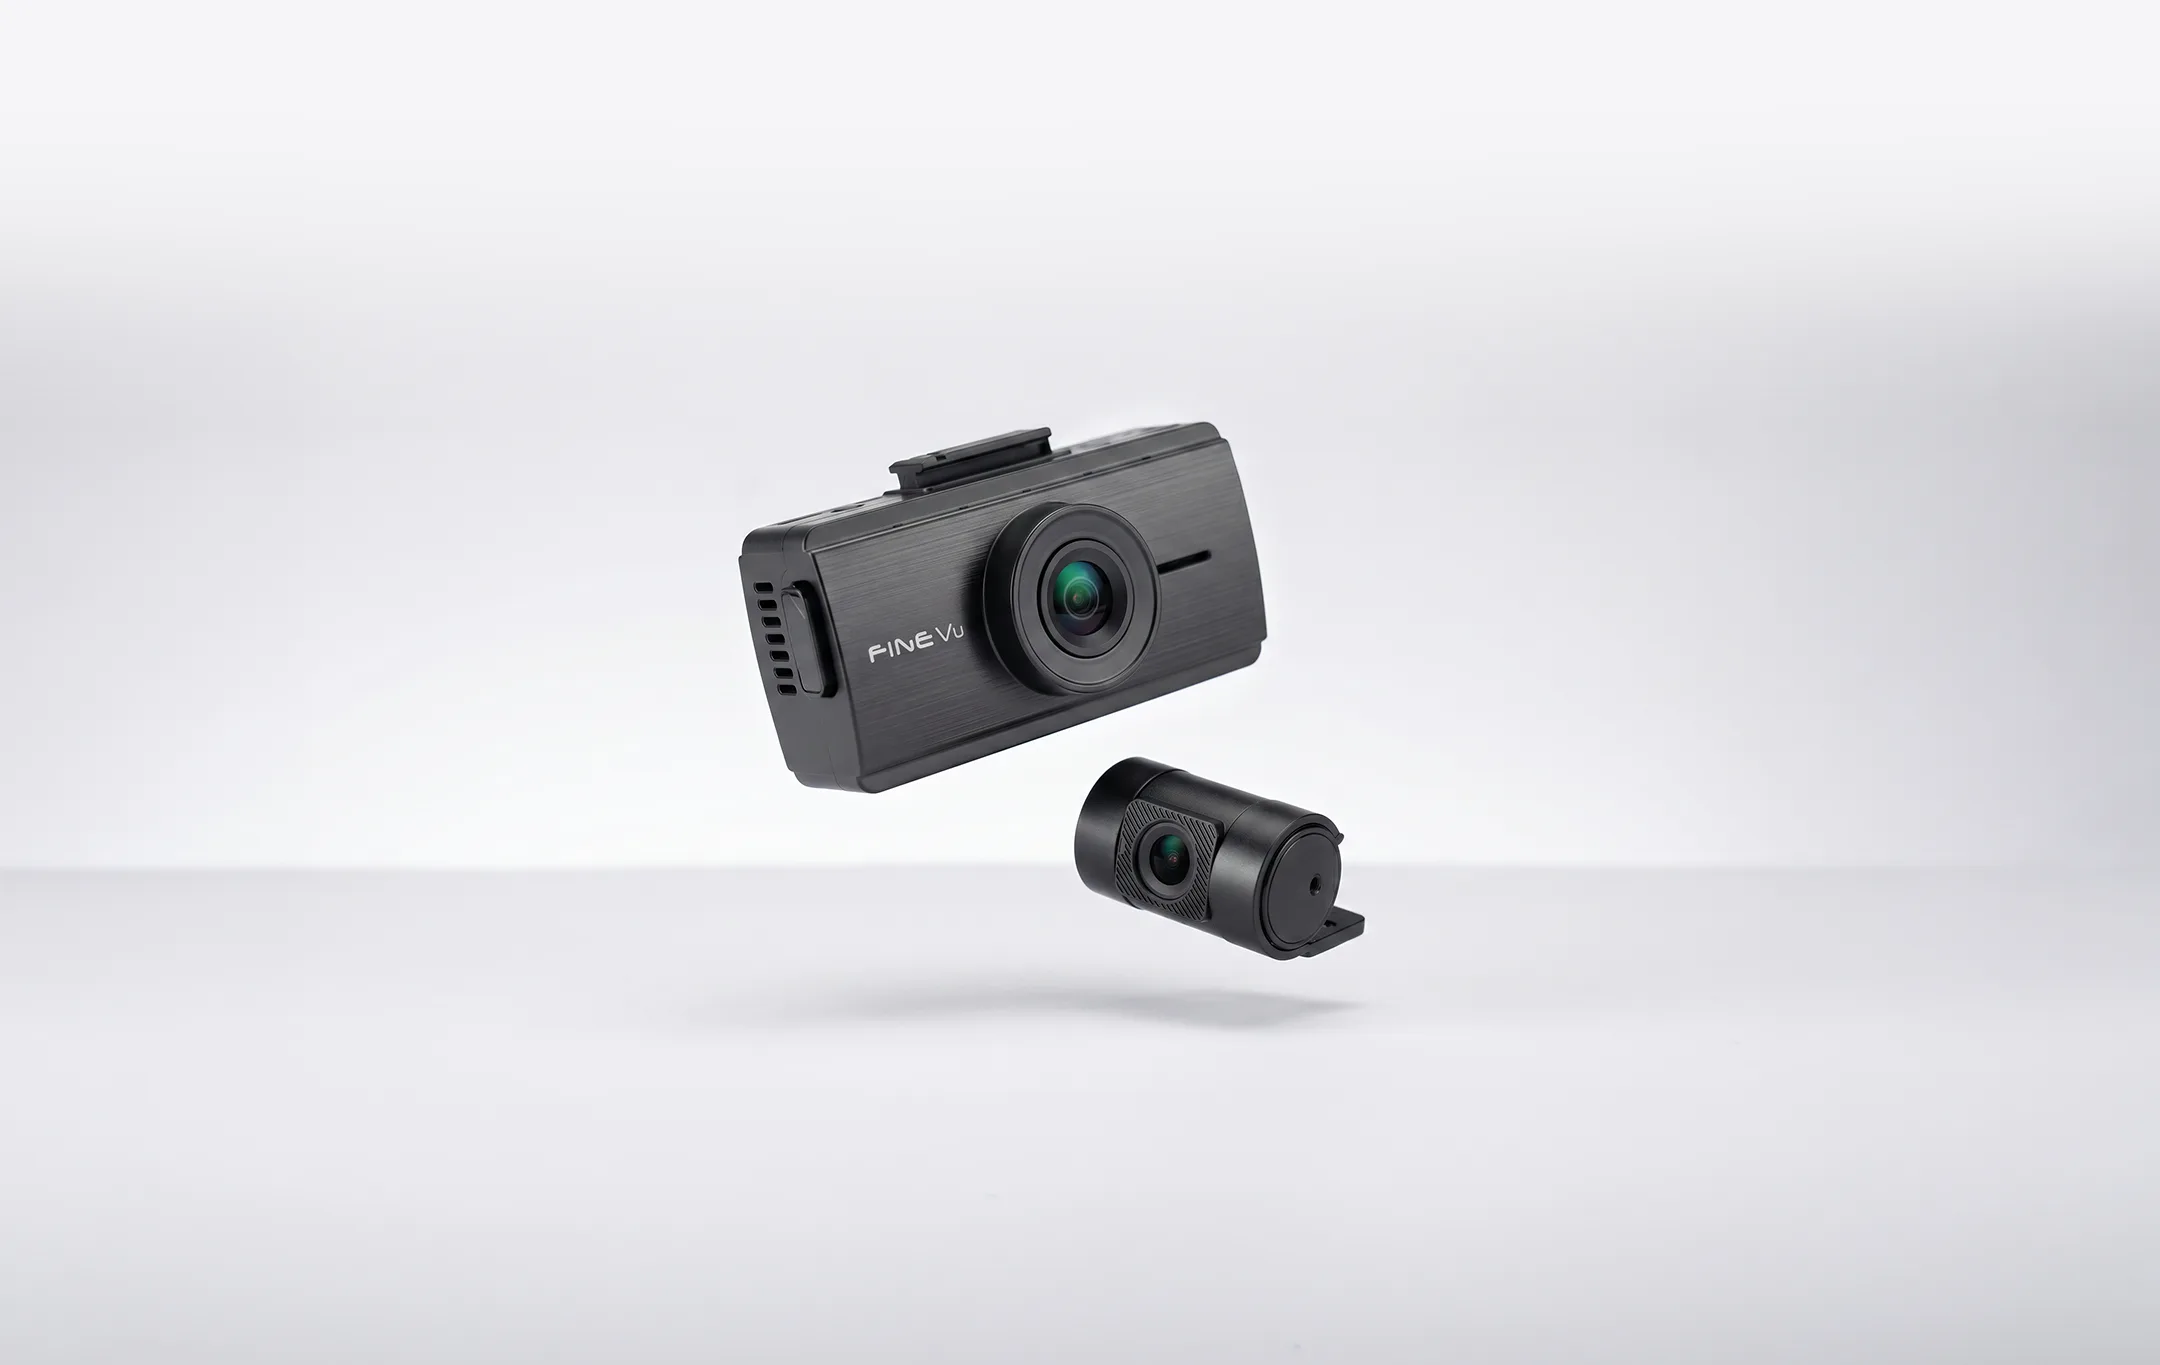
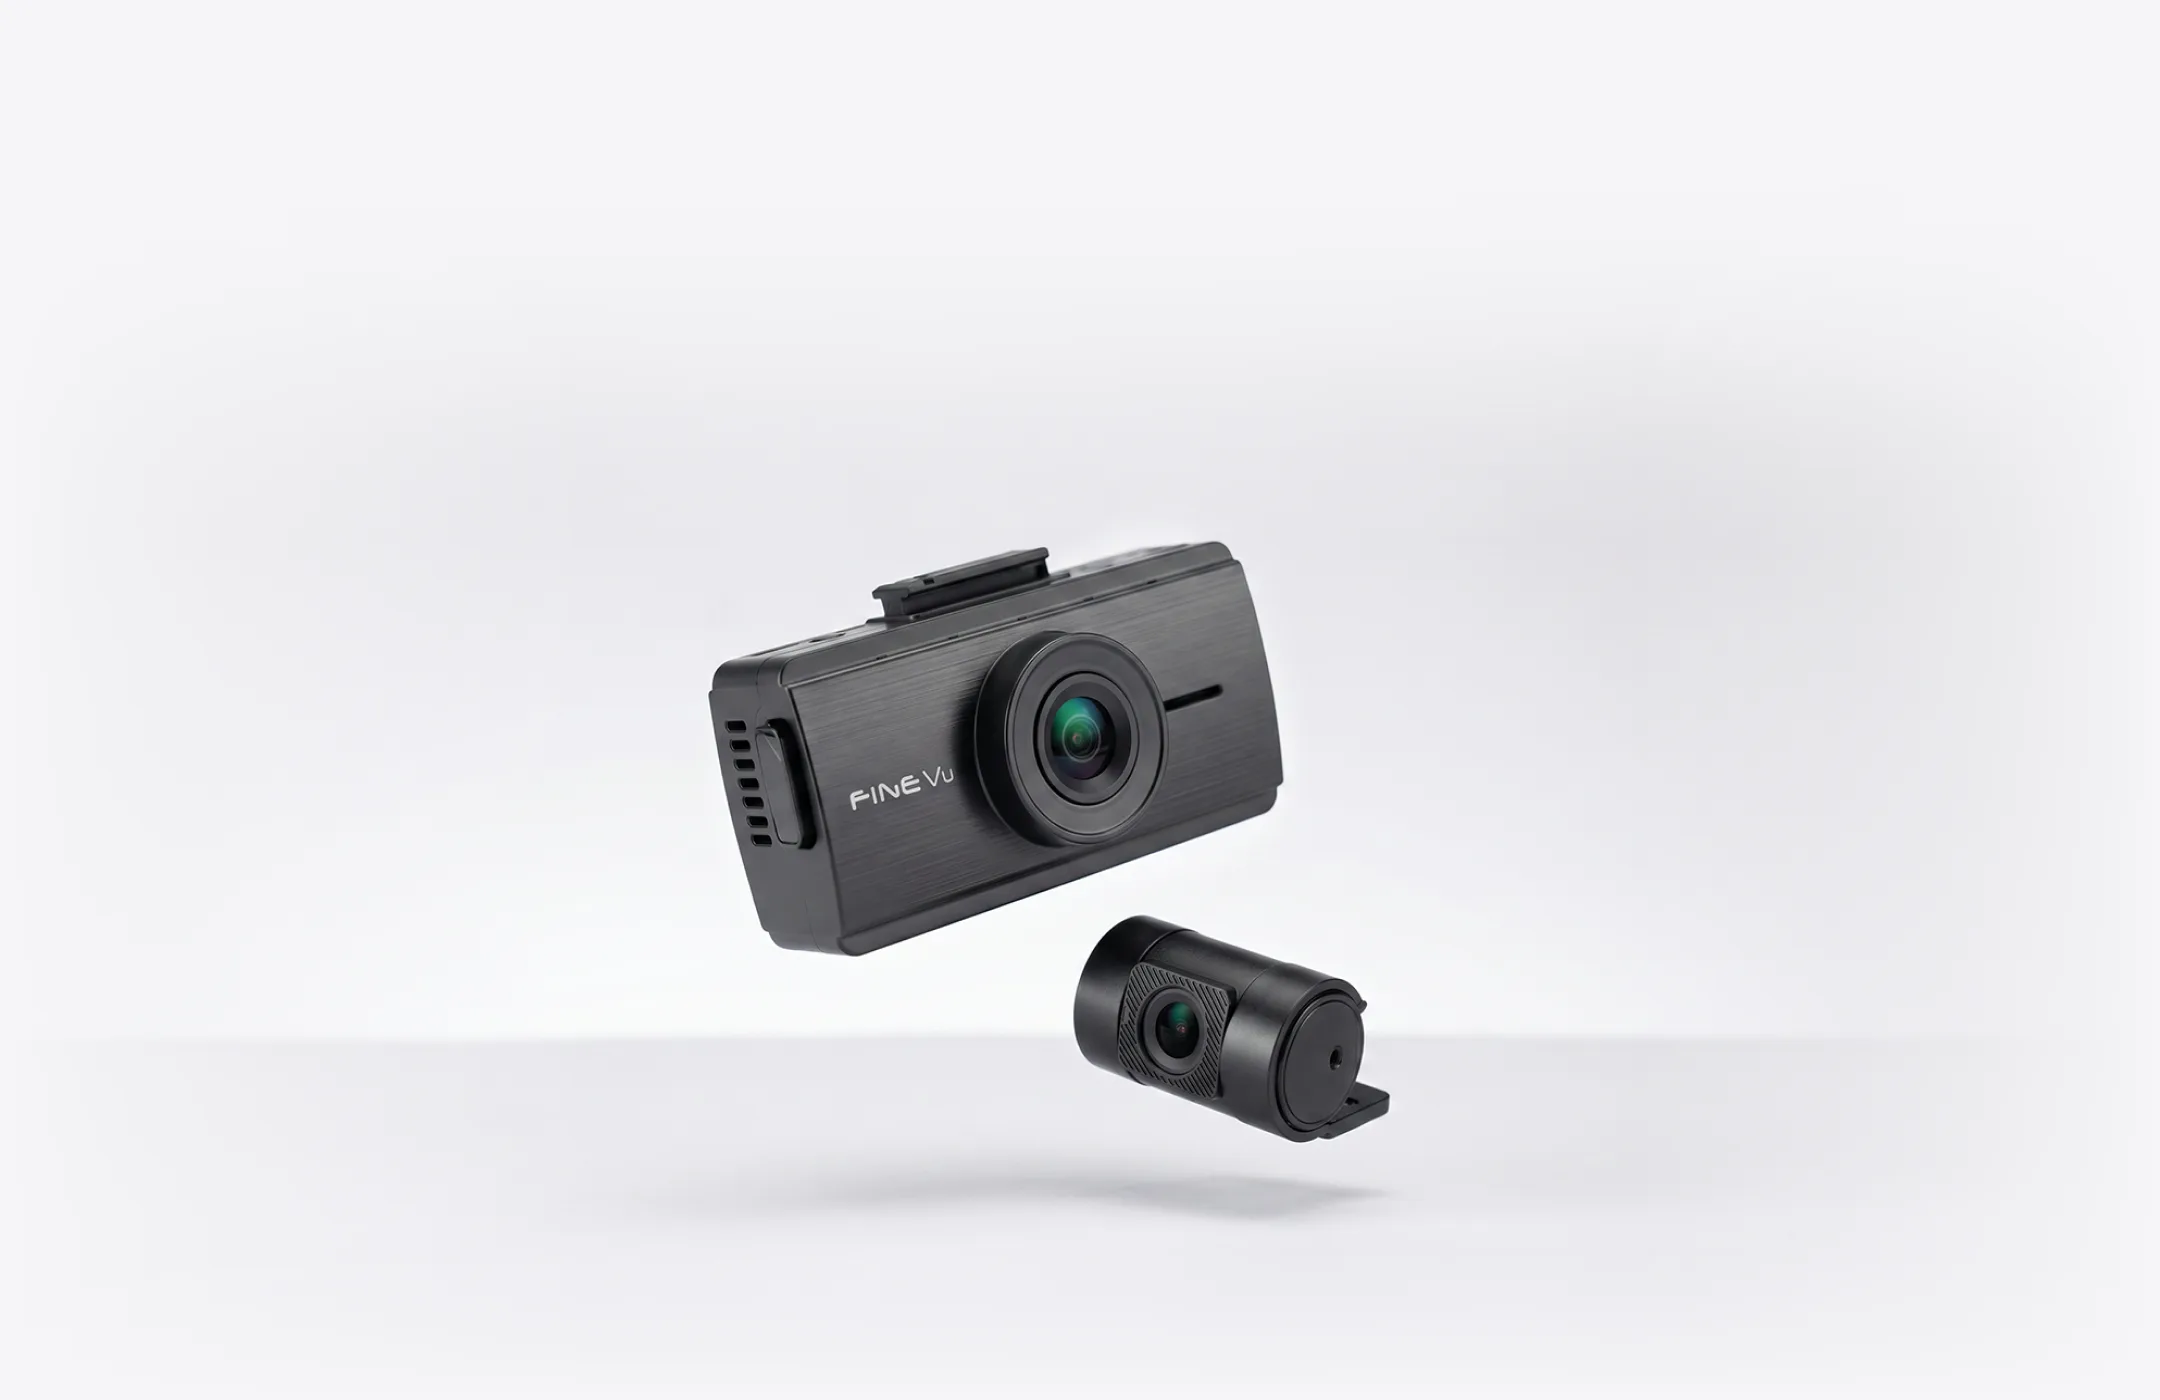
optimize optics for gx35

diff --git a/app/gx35/page.tsx b/app/gx35/page.tsx
@@ -519,7 +519,7 @@ export default function GX35Page() {
       <ScrollScrubVideo
         scrollHint={false}
         theme="light"
-        image="/gx35/optics.png"
+        image="/gx35/optics.webp"
         fit="contain"
         // Percentage, not a pixel stop: the still tracks the viewport at every size and always
         // keeps a 5% gutter each side, which is the clearance the head copy and callouts need.
